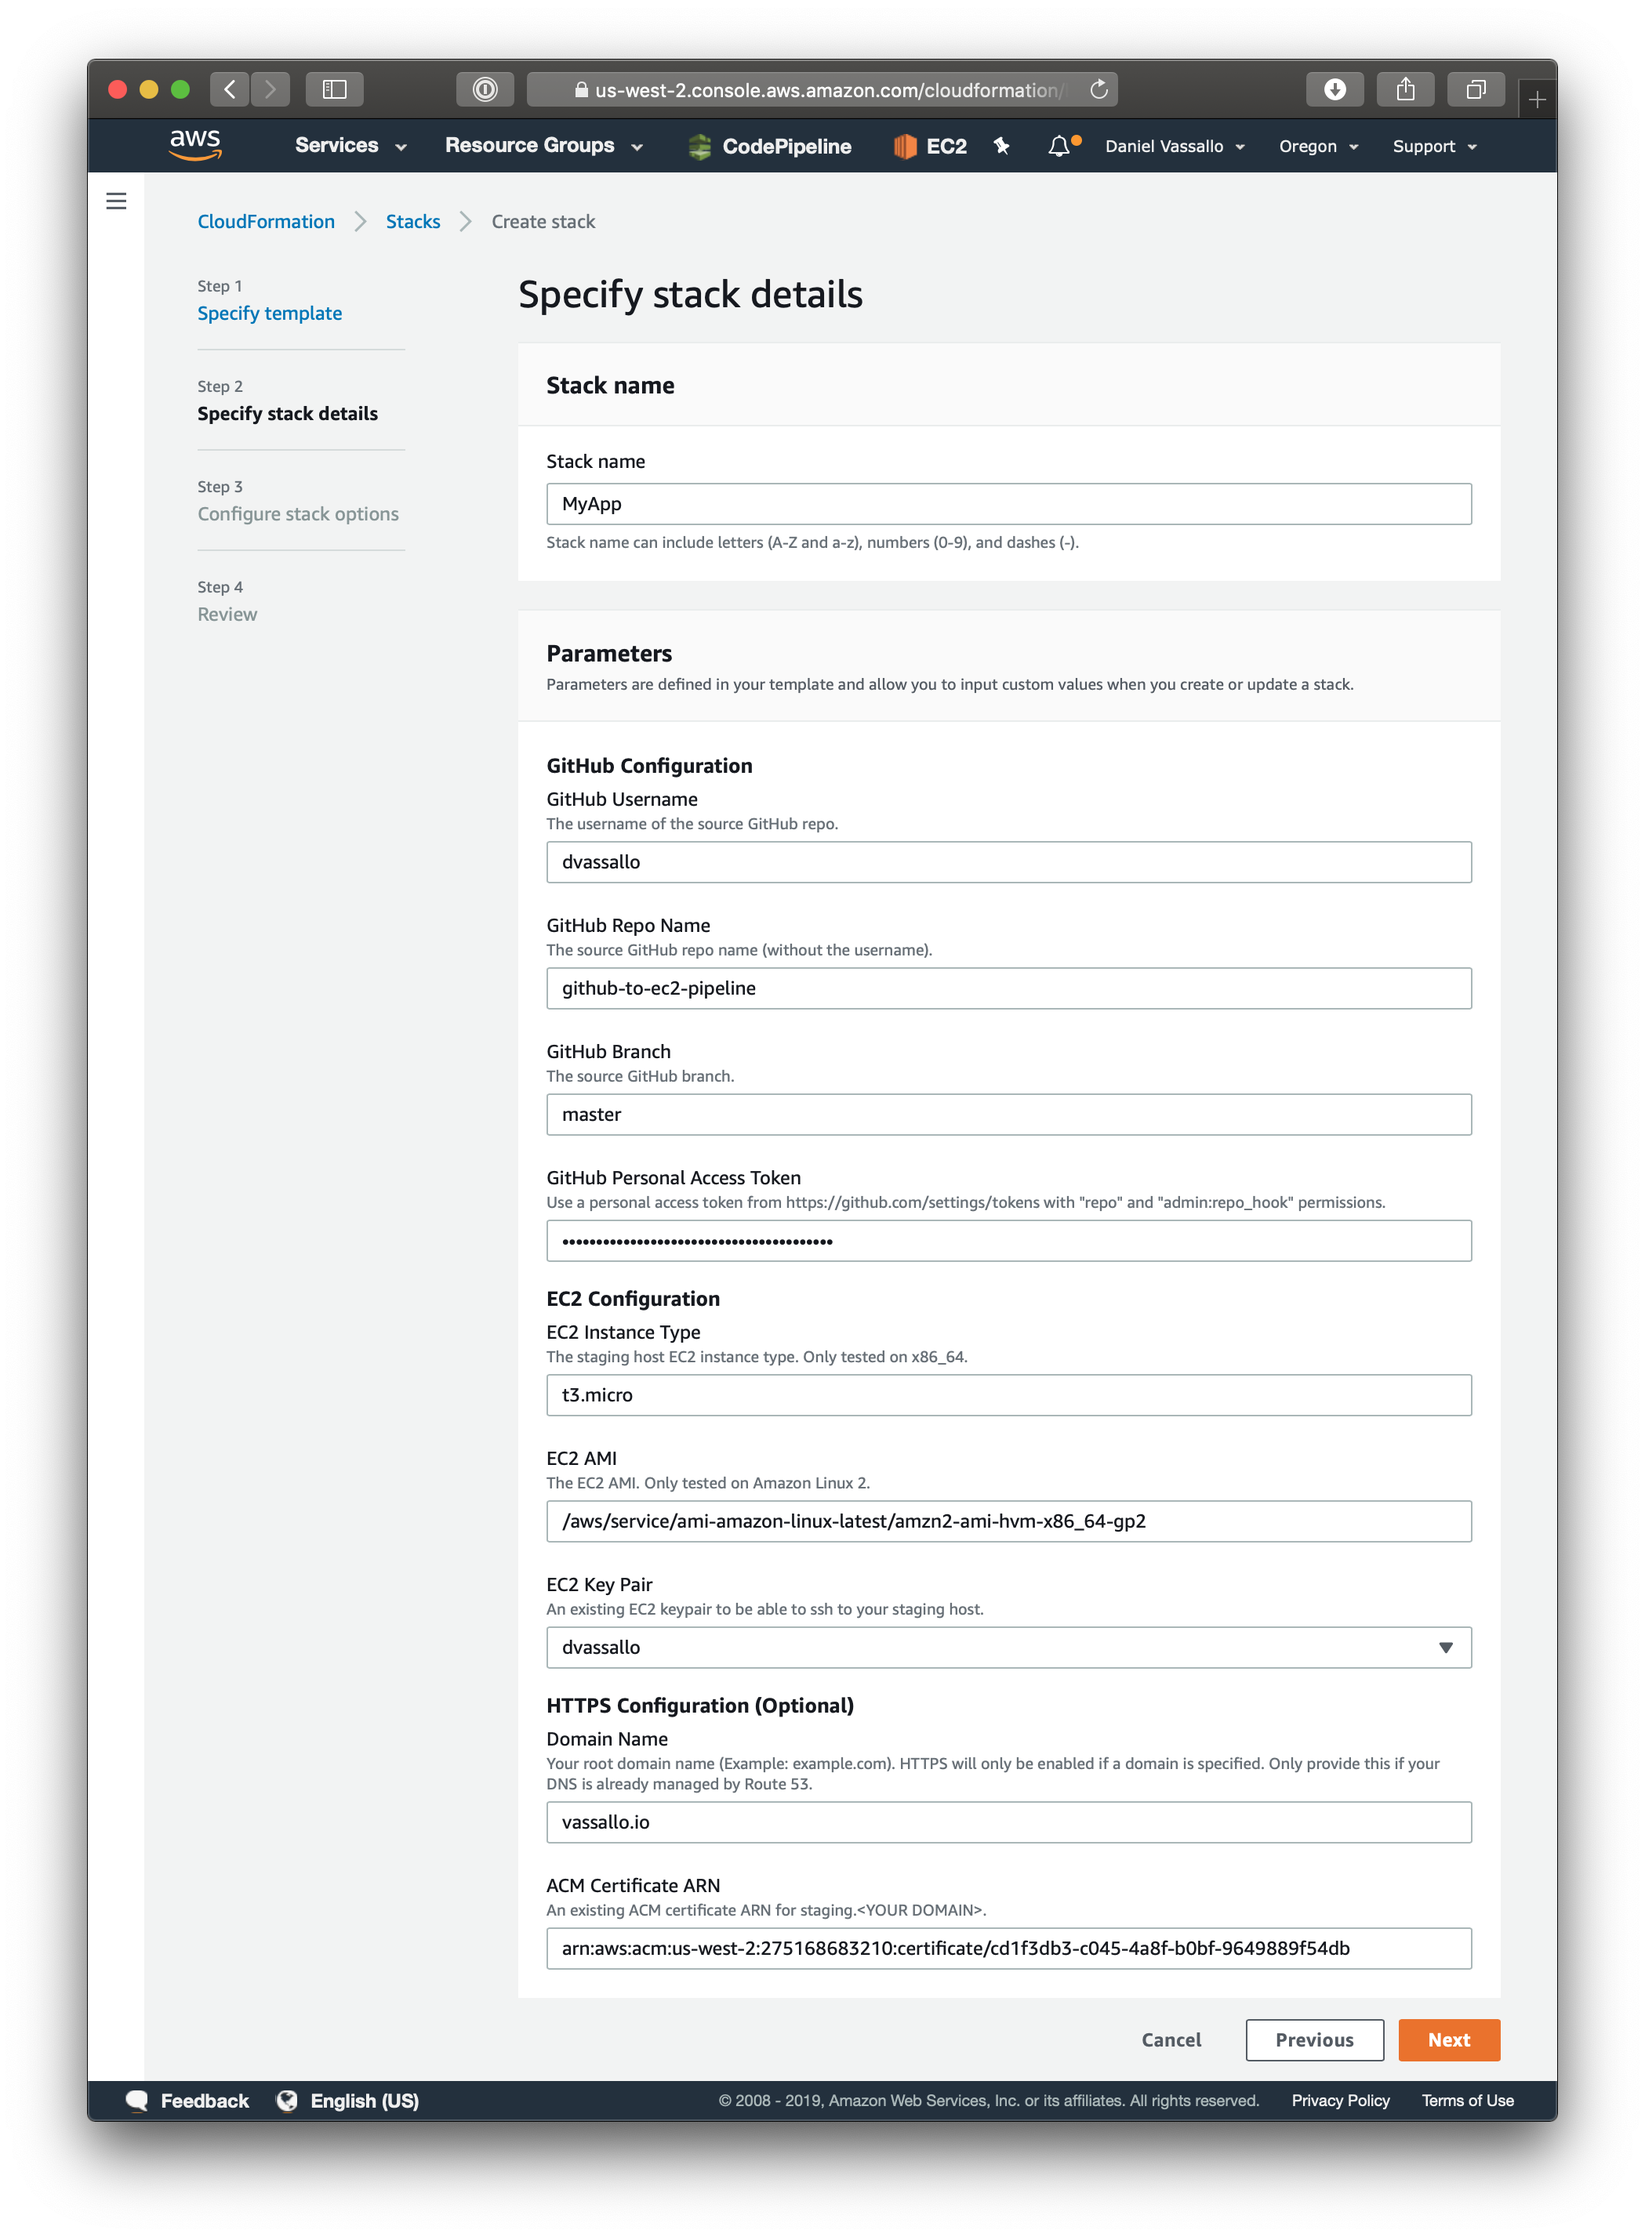
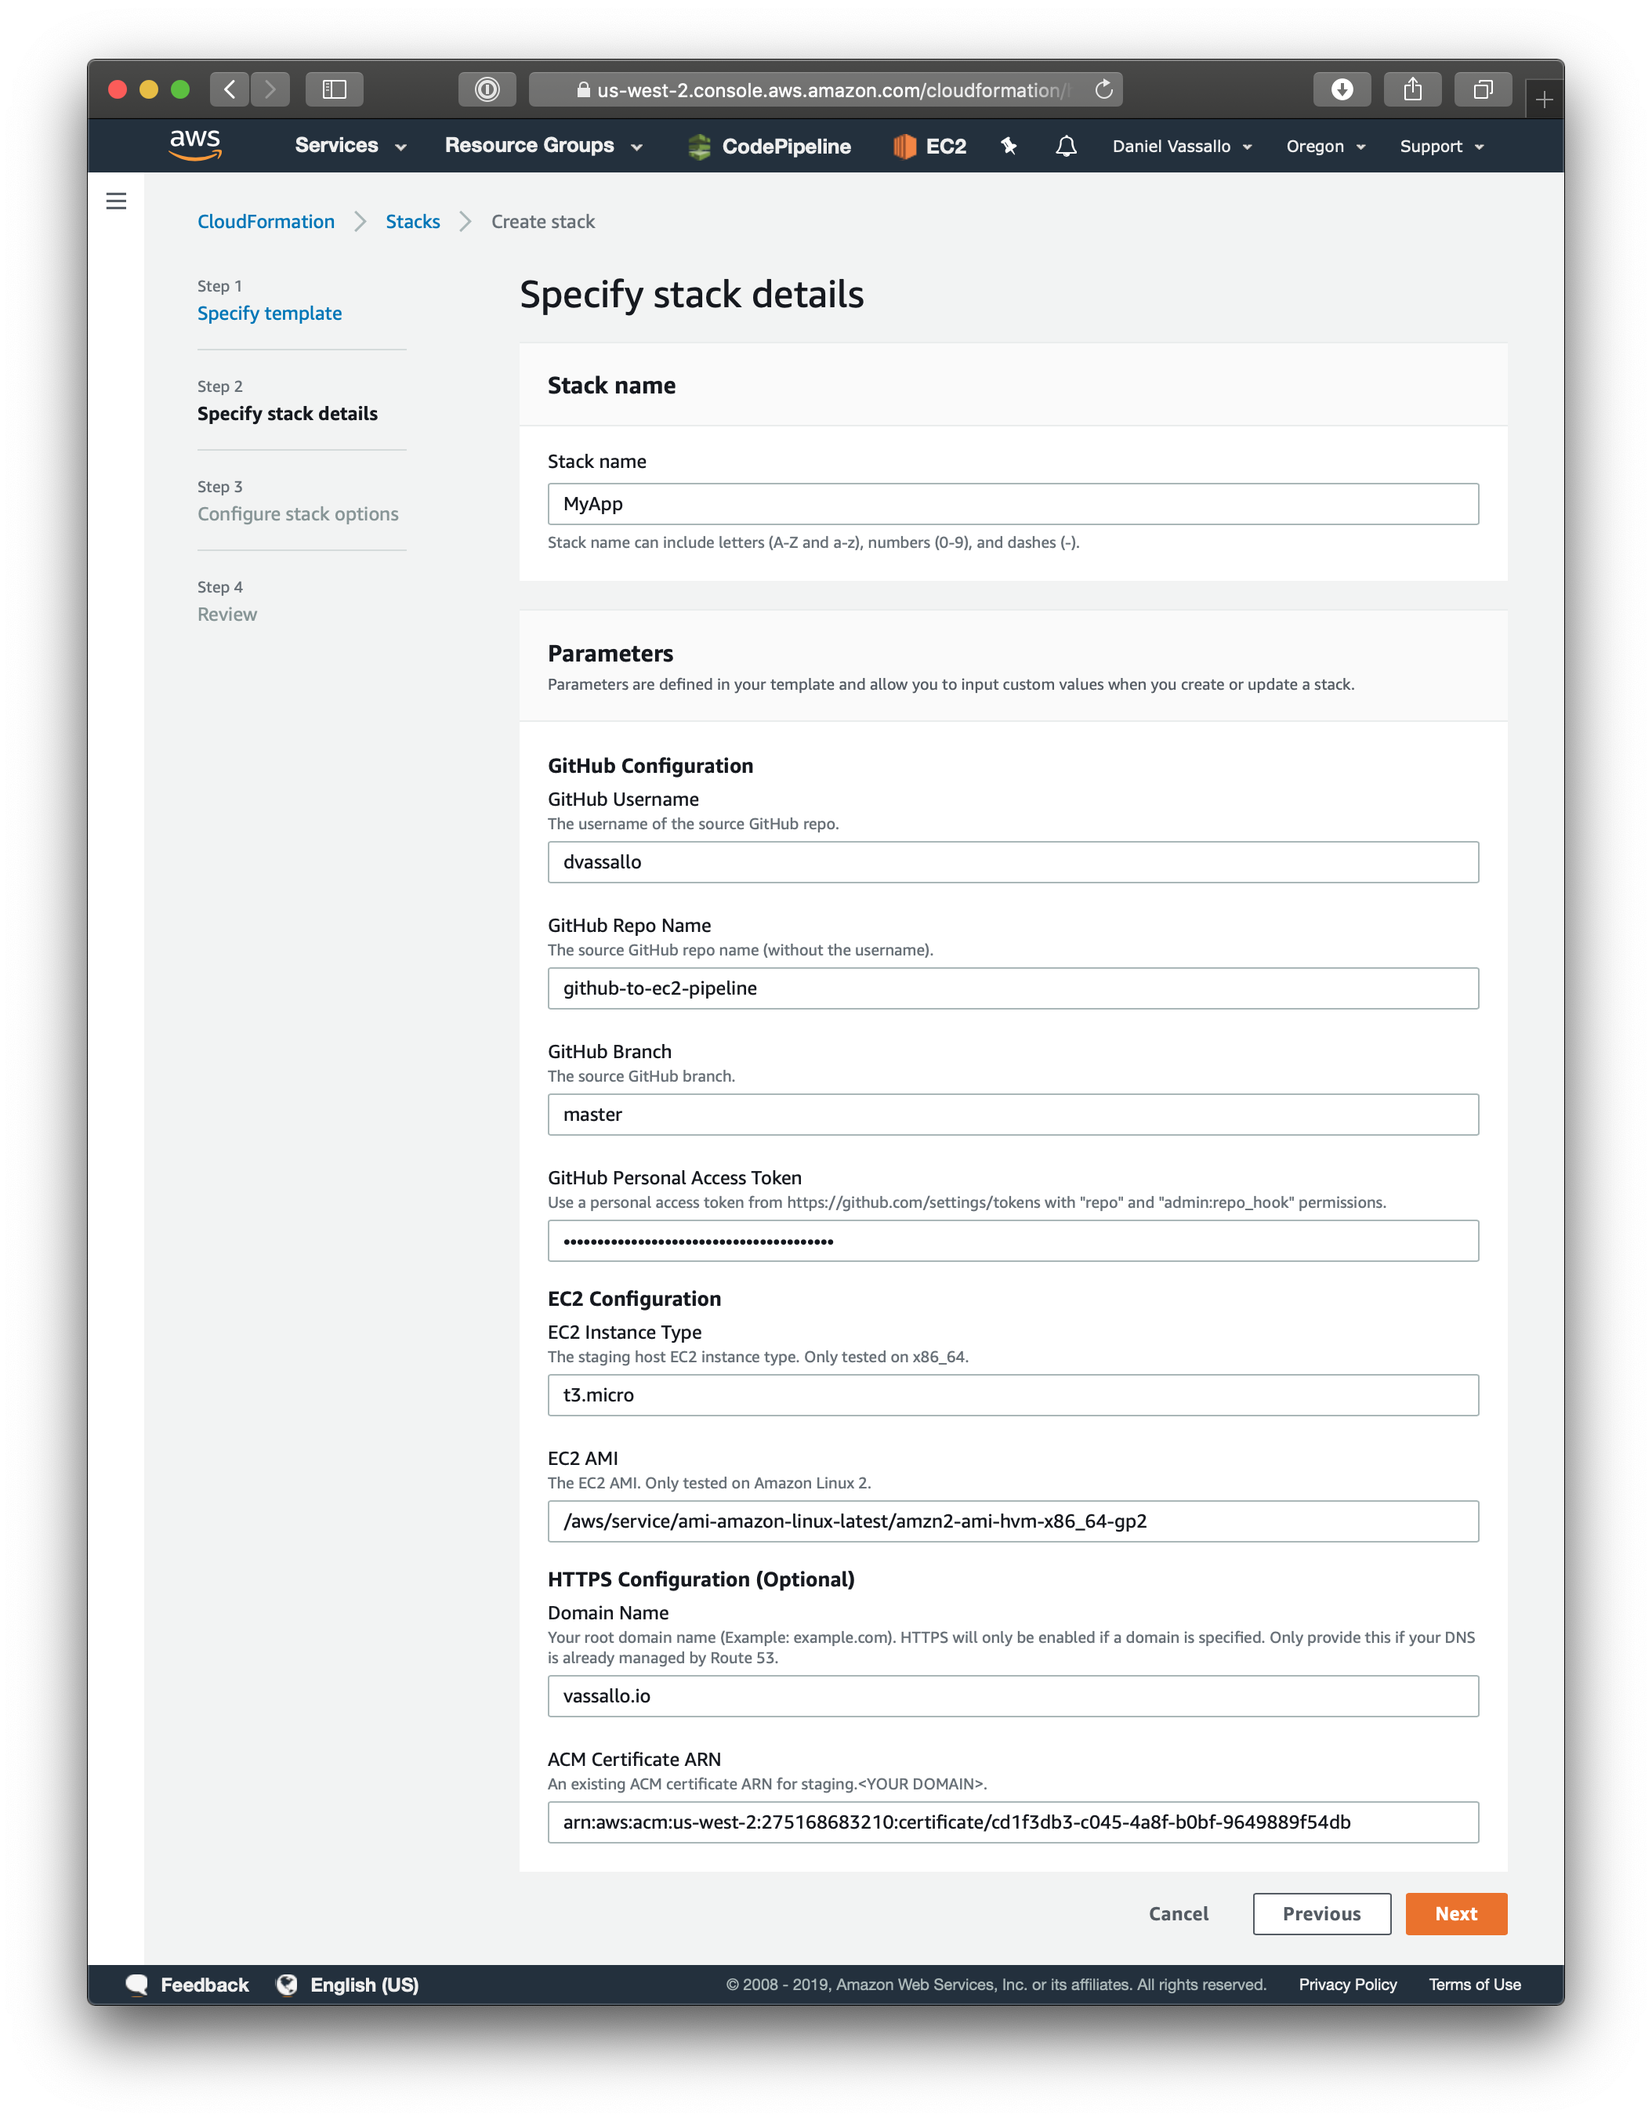
Remove key pair parameter in favor of EC2 Instance Connect
- EC2 instances can now be accessed using IAM credentials instead of key pairs: https://docs.aws.amazon.com/AWSEC2/latest/UserGuide/Connect-using-EC2-Instance-Connect.html

Changed region(s): [[0.062, 0.2794, 0.9604, 0.9623], [0.062, 0.031, 0.9604, 0.3104]]

diff --git a/README.md b/README.md
@@ -69,7 +69,6 @@ aws cloudformation deploy \
     GitHubBranch=master \
     GitHubPersonalAccessToken=$(cat ~/.github/access-token) \
     EC2InstanceType=t3.micro \
-    EC2KeyPair=dvassallo \
     Domain=vassallo.io \
     Certificate=arn:aws:acm:us-west-2:275168683210:certificate/cd1f3db3-c045-4a8f-b0bf-9649889f54db
 ```
@@ -85,7 +84,6 @@ These are all the available options for `parameter-overrides`:
 #### EC2 Configuration
 * `EC2InstanceType`: The staging host EC2 instance type. Only tested on x86_64. Default: t3.medium.
 * `EC2AMI`: The EC2 AMI. Only tested on Amazon Linux 2. Default: The latest Amazon Linux 2 AMI in the region.
-* `EC2KeyPair`: An existing EC2 keypair to be able to ssh to your staging host.
 
 #### HTTPS Configuration (Optional)
 * `Domain`: Your root domain name (Example: example.com). HTTPS will only be enabled if a domain is specified. Only provide this if your DNS is managed by Route 53.
